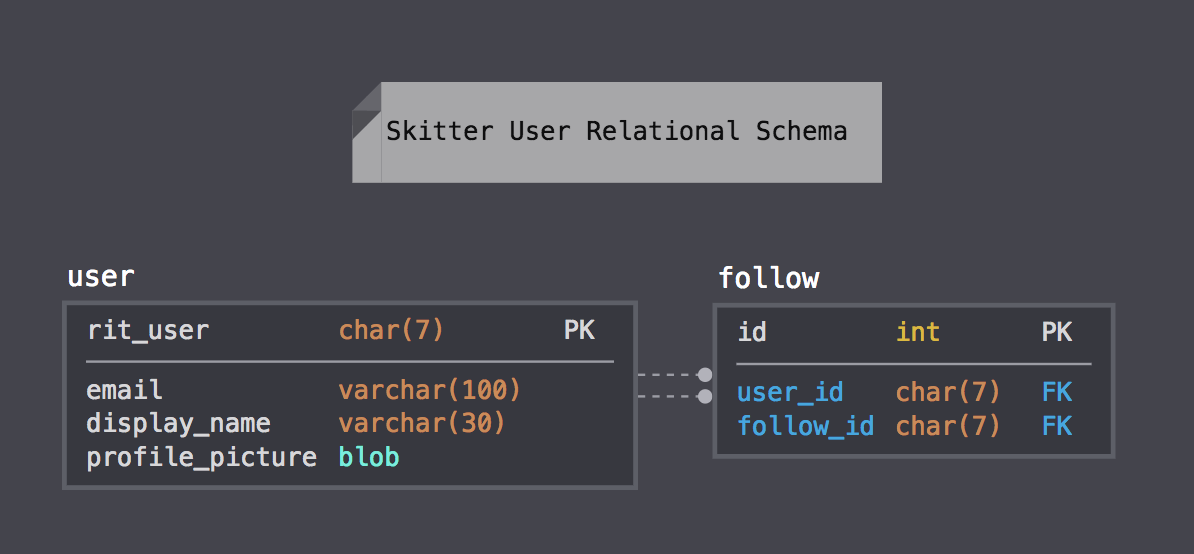
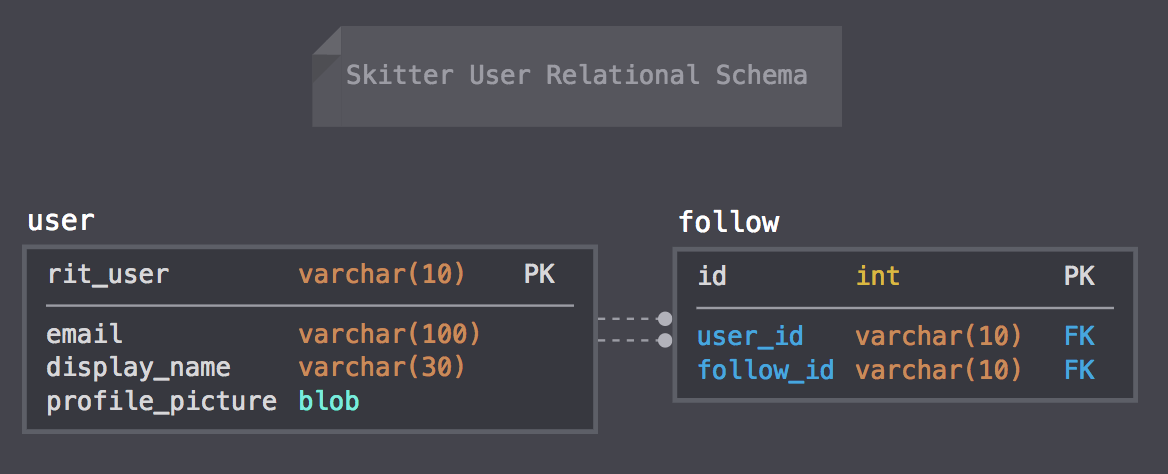
update username length in DB

Changed region(s): [[0.0, 0.443, 0.9863, 0.9156], [0.2774, 0.1181, 0.7397, 0.3544], [0.2466, 0.0591, 0.3082, 0.1181]]

diff --git a/web-server/php/register.php b/web-server/php/register.php
@@ -1,24 +1,31 @@
 <?php
-$creds = array( 'usr' => $_POST['RIT'], 'display' => $_POST['display'], 'eml' => $_POST['eml'], 'nm' => $_POST['Name']);
-$url = 'http://auth:8080/register';
 
-$curl = curl_init($url);
-$curlString = http_build_query($creds, '', '&');
-curl_setopt($curl, CURLOPT_POST, 1);
-curl_setopt($curl, CURLOPT_POSTFIELDS, $curlString);
-curl_setopt($curl, CURLOPT_RETURNTRANSFER, true);
-$response = curl_exec($curl);
-curl_close($curl);
-if($response == "created"){
-        header("Location: ../index.html");
-}
-else if($response == "error"){
-    echo htmlspecialchars("$response", ENT_QUOTES, 'UTF-8');
-}
-else if($repsonse == "already registered"){
-    echo htmlspecialchars("$response", ENT_QUOTES, 'UTF-8');
-}
-print $response;
+if(isset($_POST['usr'], $_POST['pass'])){
 
-print $curlString;
+	if(!empty($_POST['usr']) && !empty($_POST['pass'])) {
+
+	$creds = array( 'usr' => $_POST['RIT'], 'display' => $_POST['display'], 'eml' => $_POST['eml'], 'nm' => $_POST['Name']);
+
+	$url = 'http://auth:8080/register';
+
+	$curl = curl_init($url);
+	$curlString = http_build_query($creds, '', '&');
+	curl_setopt($curl, CURLOPT_POST, 1);
+	curl_setopt($curl, CURLOPT_POSTFIELDS, $curlString);
+	curl_setopt($curl, CURLOPT_RETURNTRANSFER, true);
+	$response = curl_exec($curl);
+	curl_close($curl);
+	if($response == "created"){
+	        header("Location: ../index.html");
+	}
+	else if($response == "error"){
+	    echo htmlspecialchars("$response", ENT_QUOTES, 'UTF-8');
+	}
+	else if($repsonse == "already registered"){
+	    echo htmlspecialchars("$response", ENT_QUOTES, 'UTF-8');
+	}
+	echo htmlspecialchars("$response", ENT_QUOTES, 'UTF-8');
+
+	echo htmlspecialchars("$curlString", ENT_QUOTES, 'UTF-8');
+
 ?>
